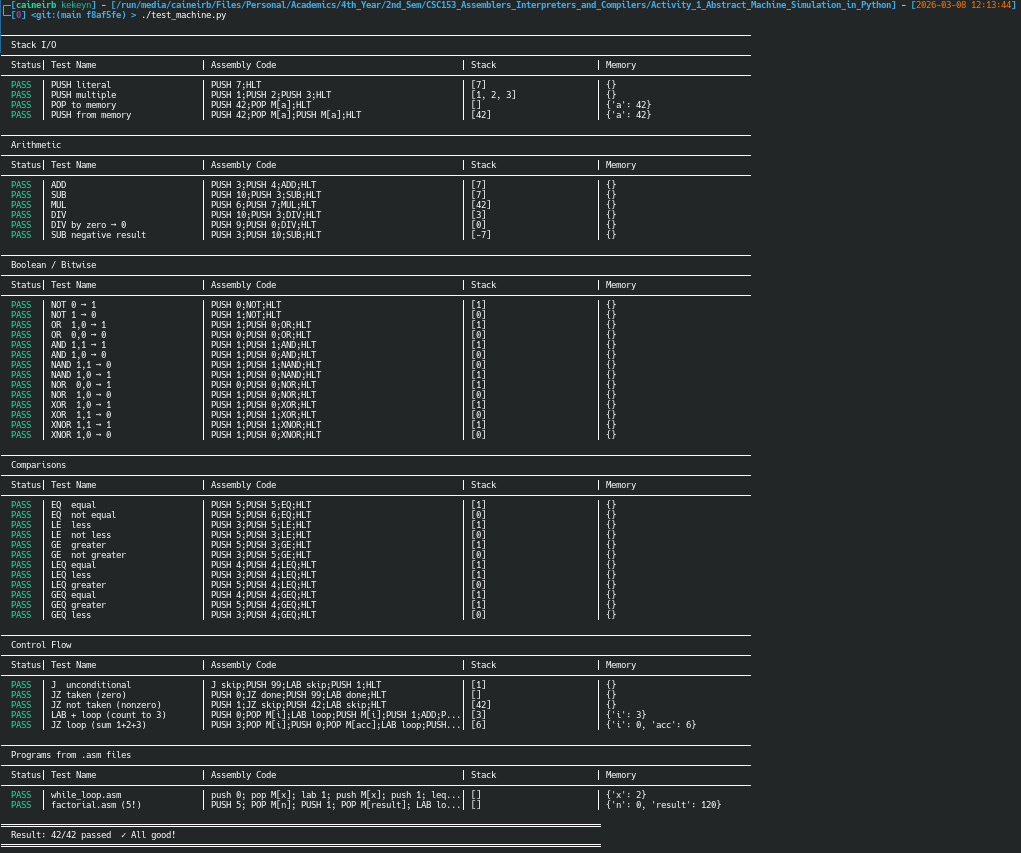
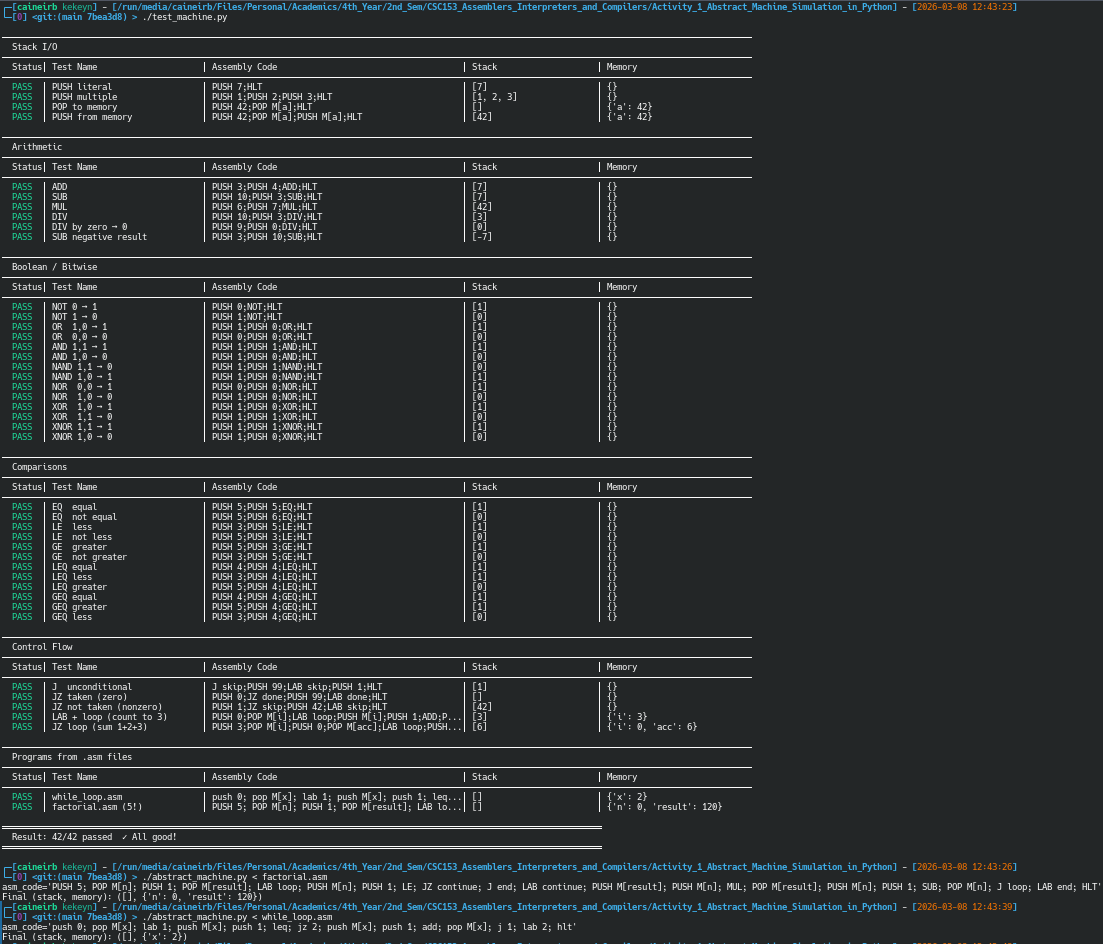
enabled __name__ == '__main__' in abstract_machine.py

Changed region(s): [[0.0, 0.0, 1.0, 1.0]]

diff --git a/abstract_machine.py b/abstract_machine.py
@@ -151,10 +151,10 @@ def main() -> None:
         state = initial_state(code)
         final_state = run(state=state)
 
-        print(f"Final state: {final_state}")
+        print(f"Final (stack, memory): {final_state[1:]}")
     except (ValueError, KeyError, IndexError) as exc:
         print(f"Error: {exc}", file=sys.stderr)
         sys.exit(1)
 
-# if __name__ == "__main__":
-#     main()
+if __name__ == "__main__":
+    main()
